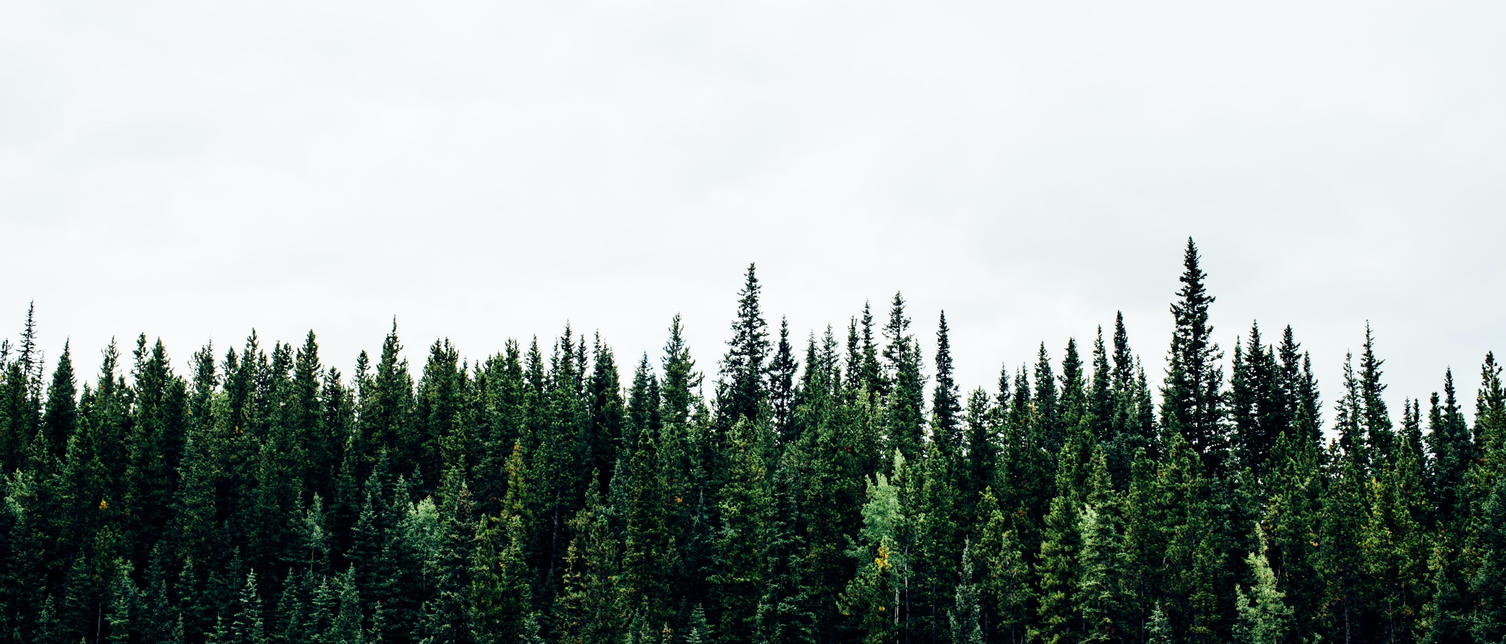
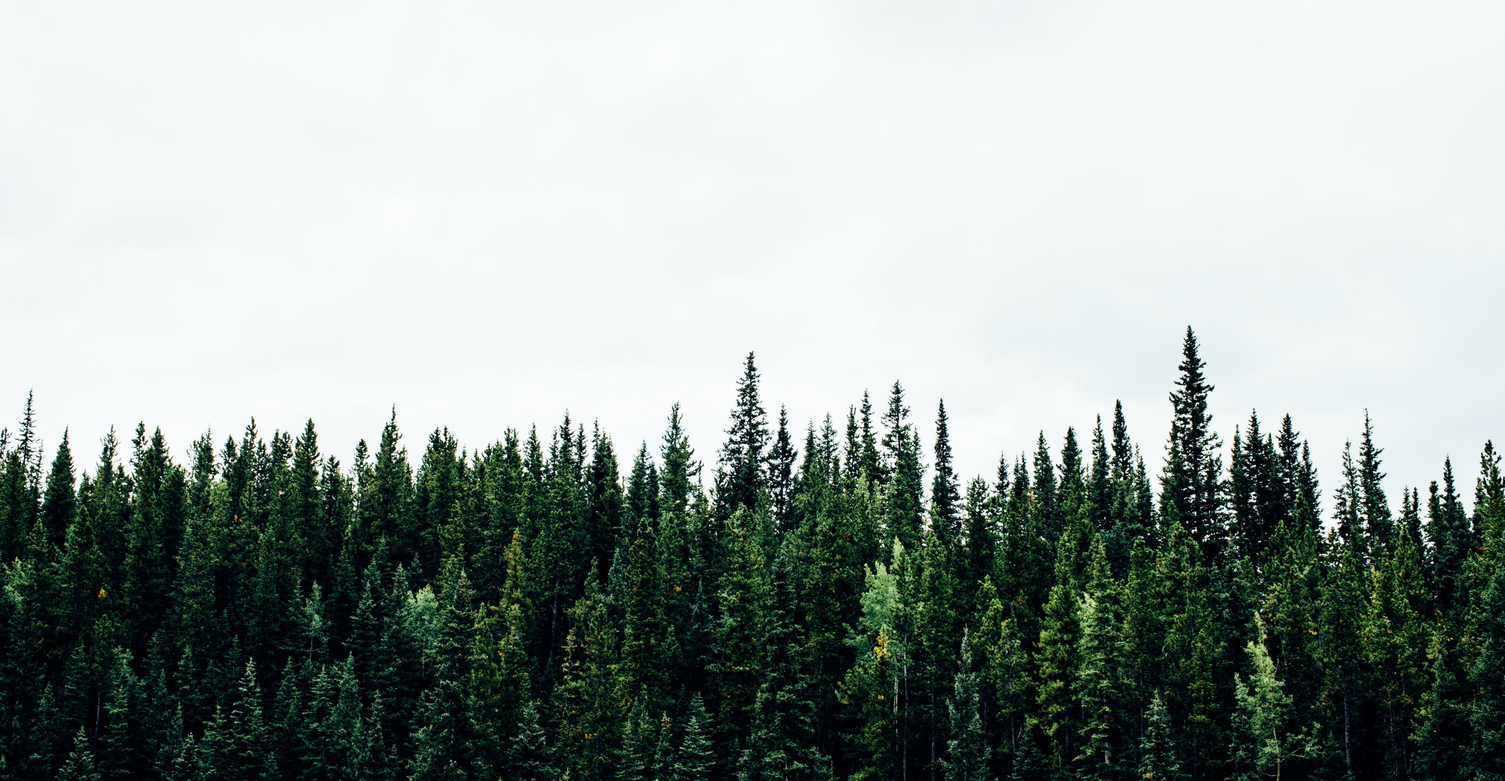
full days work, many changes to design

Changed region(s): [[0.0, 0.3741, 1.0, 1.0]]

diff --git a/app.html b/app.html
@@ -13,7 +13,7 @@
             <div class="navbar">
 
                 <a href="index.html">
-                    <img alt="logo" src="media/CO2unt-ekstra.png" alt="logo">
+                    <img alt="logo" src="media/half-white-large.png" alt="logo">
                 </a>
 
 
@@ -35,19 +35,22 @@
             </div>
         </header>
         <main id="app">
+            <div id="vision"><img src="media/forest.jpg" alt="forest background"> <h1>THE APP</h1></div>
+            <div id="arrowdown">
+                <a href="#arrowdown">
+                    
+                    <img src="media/greenarrow.png" alt="scroll down">
+                </a>
+            </div>
 
         <!--Present the app-->
             <div class="grid1">
 
                 <div class="counter">
                     <h1>The Count app</h1>
-                    <p>The app helps the user get a good understanding of
-                       their own CO2 budget, and motivate them to cut their own emissions.
-                        It's easy to use, educational and a fun interactive app.
-                        We will help you set up realistic goals. We give you personalized advice,
-                        tips and tricks on how reach those goals and
-                        motivate you when it feels like your they are out of reach.
-                        We reward you when you do good, so it will be easier to sucess!
+                    <p> 
+                        The app helps the user get a good understanding of their own CO2 budget, and motivates them to cut their own emissions. It's an easy to use, educational and a fun interactive app. It helps the user set up realistic goals, gives personalized advice, and motivates. The user is rewarded when they do well, to elicit positive emotions and encourage the user to do even better through positive reinforcement. 
+                        
                     </p>
                 </div>
 
@@ -181,6 +184,14 @@
                 <img src="media/phoneWithApp/scan.png" alt="this is a mountain">
             </div>
         </div>
+
+        <div id="arrowup">
+            <a href="#vision">
+                
+                <img src="media/arrow-down-sign-to-navigate.png" alt="scroll down">
+            </a>
+        </div>
+    
     </main>
 
         <script src="script.js"></script>

diff --git a/science.html b/science.html
@@ -14,7 +14,7 @@
             <div class="navbar">
 
                 <a href="index.html">
-                    <img alt="logo" src="media/CO2unt-ekstra.png" alt="logo">
+                    <img alt="logo" src="media/half-white-large.png" alt="logo">
                 </a>
 
 
@@ -37,10 +37,17 @@
         </header>
 
      <main id="science">
-         <div id="vision"><img src="media/forest.jpg" alt="forest background"> <h1>Count's Vision</h1></div>
-        <div class="grid1"></div>
+         <div id="vision"><img src="media/mountainPass.jpg" alt="Mountain Pass background"> <h1>Count's Vision</h1>
+            <div id="arrowdown">
+                <a href="#arrowdown">
+                    <img src="media/greenarrow.png" alt="scroll down">
+                </a>
+            </div>
+        </div>
+         
+        <div class="grid1">
 
-            <div class="counter">
+            <div class="app">
                 <h1>Sustainable Developement Goals</h1>
                 <p>The UN tells us that Climate Change is a global challenge that affects everyone,
                    everywhere. Their sustainable development goal number 13: Climate Action,
@@ -49,16 +56,14 @@
                     change to 1,5* degrees celsius
 
                      HUSK AT HER SKAL DET VÆRE EN LINK TIL SDG
-                    </p>
-                </div>
+                </p>
             </div>
-
-            <div class="grid1">
-
-                 <div class="counter">
-                    <img src="/media/mountain.jpg" alt="Her skal det være et bilde for SDG">
-                 </div>
+            <div class="counter">
+                <img src="media/SDg.jpg" alt="Her skal det være et bilde for SDG">
             </div>
+        </div>
+
+            
 
             <div class="grid1">
 
@@ -89,7 +94,12 @@
 
 
 
-
+            <div id="arrowup">
+                <a href="#vision">
+                    
+                    <img src="media/arrow-down-sign-to-navigate.png" alt="scroll down">
+                </a>
+            </div>
 
     </main>
 

diff --git a/style/main.css b/style/main.css
@@ -148,7 +148,6 @@ start FLEXGRID*/
 /*Footer part ------------------------------------------------------------------------------------------*/
 
 footer {
-    margin-top: 11vw;
     background-color:#293F27;
     font-size: 1.6vw;
 }
@@ -205,6 +204,67 @@ footer li{
 #rightalign h3{
     text-align: right;
 }
+
+#vision {
+    text-align: center;
+}
+
+#vision img {
+    width: 100%;
+    z-index: -100;
+}
+
+#vision h1 {
+    margin-top: -36vw;
+    margin-bottom: 25vw;
+    letter-spacing: 2px;
+    color: #293F27;
+    font-weight: lighter;
+    font-size: 5vw;
+   text-shadow: 1px 1px lightgray;
+}
+
+#arrowdown, #arrowup{
+    margin-top: -5.5vw;
+    width: 5%;
+    height: 5em;
+    text-align: center;
+    margin-left: 47.5%;
+    margin-right: 47.5%;
+}
+
+#arrowdown a{
+    color: #293F27;
+    text-decoration: none;
+    text-align: center;
+}
+
+#arrowdown a img, #arrowup a img{
+    
+    width: 100%;
+    border-radius: 5px;
+    /*padding-left: 47.5%;
+    padding-right: 47.5%;*/
+    /*opacity: 75%;*/
+}
+
+#arrowdown:hover, #arrowup:hover{
+    opacity: 80%;
+    margin-right: 47%;
+    margin-left: 47%;
+    transition: 0.5s;
+    width: 6%;
+}
+
+#arrowup a img{
+    transform: scaleY(-1);
+}
+
+#arrowup{
+    margin-top: 4vw;
+    margin-bottom: 3em;
+}
+
 
 /* Mediadel**********************************************************************************************/
 
@@ -292,8 +352,8 @@ footer li{
     }
 
     footer, footer .app a, footer .app ul li, #copyright{
-        font-size: 100%;
-        letter-spacing: 3.5px;
+        font-size: 65%;
+        letter-spacing: 2px;
     }
     #copyright{
         font-size: 5vw;

diff --git a/index.html b/index.html
@@ -14,7 +14,7 @@
             <div class="navbar">
 
                 <a href="index.html">
-                    <img alt="logo" src="media/CO2unt-ekstra.png" alt="logo">
+                    <img alt="logo" src="media/half-white-large.png" alt="logo">
                 </a>
 
 
@@ -38,9 +38,21 @@
 
         <main id="index">
 
+            <div id="vision">
+                <img src="media/phoneOnTable.jpg" alt="Phone with count app on table"> 
+                <h1>The Emission Supervision App</h1>
+                <div id="arrowdown">
+                    <a href="#arrowdown">
+        
+                        <img src="media/greenarrow.png" alt="scroll down">
+                    </a>
+                </div>
+            </div>
+            
+
             <div class="grid1">
                 <div class="app">
-                    <h1>Count, a step in a green direction.</h1>
+                    <h1>What is Count?</h1>
                     <p>Do you want to be in control of your own <span>carbon footprint</span>? The Count app will help you make simple and easy changes to become more environmentally friendly. The app will let you know what part of your lifestyle is making a <span>bigger impact</span>, and gives you simple tips to lessen your carbon footprint. 
                        <br> <br>Good luck on your <span>eco-friendly journey!</span></p>
 

diff --git a/style/index.css b/style/index.css
@@ -1,3 +1,9 @@
+#index {
+    margin-bottom: 11vw;
+    margin-top: 0vw;
+    
+}
+
 #index p {
     font-size: 1.4vw;
     text-align: left;
@@ -10,7 +16,49 @@
     padding-top: 1.5vw;
 }
 
+#index #vision h1{
+    text-align: left;
+    margin-right: 60%;
+    margin-left: 8%;
+    margin-top: -18vw;
+    margin-bottom: 0px;
+    font-size: 3vw;
+}
 
+#index #vision img {
+    height: 50vw;
+}
+/*#arrowdown, #arrowup{
+    margin-top: -5.5vw;
+    width: 5%;
+    height: 5em;
+    text-align: center;
+    margin-left: 47.5%;
+    margin-right: 47.5%;
+}*/
+
+#index #vision #arrowdown{
+    text-align: left;
+    margin-top: 0px;
+    margin-left: 15%;
+    margin-right: 80%;
+    margin-bottom: 7.5vw;
+    
+}
+#index #vision #arrowdown:hover{
+    opacity: 80%;
+    margin-right: 79.5%;
+    margin-left: 14.5%;
+    transition: 0.5s;
+    width: 6%;
+}
+
+#index #vision #arrowdown img{
+    margin-left:3em;
+    margin-top: 0.8em;
+    height: auto;
+    border-radius: 5px;
+}
 
 #index .grid1 .app img {
     margin-top: 3em;
@@ -38,7 +86,15 @@
     }
 
     #index{
-        padding-top: 5vw;
+        padding-top: 16vw;
+    }
+
+    #vision h1, #vision #arrowdown{
+        display: none;
+    }
+
+    #vision{
+        p
     }
 }
 

diff --git a/style/science.css b/style/science.css
@@ -7,23 +7,22 @@
     margin-top: 0px;
 }
 
-#vision {
-    text-align: center;
+#science .grid1{
+    margin-right: 10%;
+    margin-left: 10%;
 }
 
-#vision img {
+#science .app{
+    margin-left: 0;
+}
+
+#science .grid1 .counter img{
     width: 100%;
-    z-index: -100;
+    margin-top: 5vw;
 }
 
-#vision h1 {
-    margin-top: -32vw;
-    margin-bottom: 32vw;
-    letter-spacing: 2px;
-    color: #293F27;
-    font-weight: lighter;
-    font-size: 5vw;
-   text-shadow: 1px 1px lightgray;
+#science #vision #arrowdown{
+    margin-bottom: 8em;
 }
 
 @media only screen and (max-width: 730px) {

diff --git a/contact.html b/contact.html
@@ -13,7 +13,7 @@
         <div class="navbar">
 
             <a href="index.html">
-                <img alt="logo" src="media/CO2unt-ekstra.png" alt="logo">
+                <img alt="logo" src="media/half-white-large.png" alt="logo">
             </a>
 
 

diff --git a/style/app.css b/style/app.css
@@ -1,5 +1,5 @@
 #app{
-    margin-top: 5vw;
+    margin-top: 0vw;
 }
 
 #app .grid1{
@@ -31,6 +31,8 @@
 #app_footer{
     margin-top: 0;
 }
+
+
 
 .offset {
     background-color: #ece9ec;
